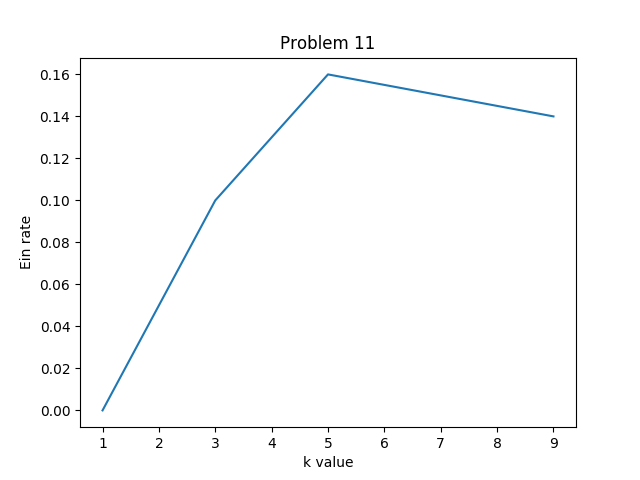
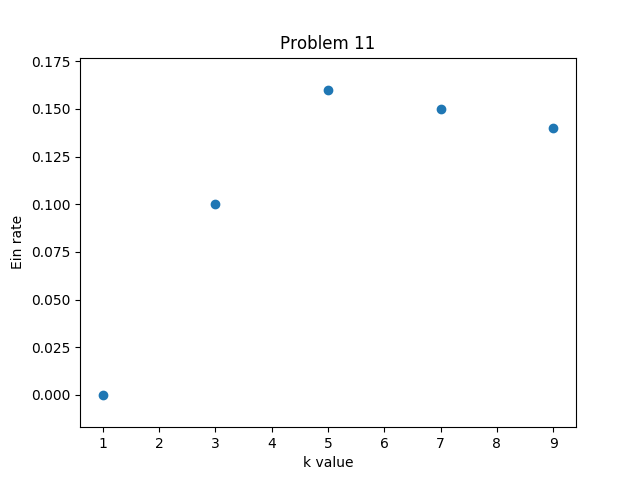
fix

diff --git a/hw4/knn.py b/hw4/knn.py
@@ -48,7 +48,7 @@ def problem_11():
     plt.title('Problem 11')
     plt.xlabel('k value')
     plt.ylabel('Ein rate')
-    plt.plot(k_list, Ein_list)
+    plt.scatter(k_list, Ein_list)
     plt.savefig('img/problem_11.png')
 
 def problem_12():
@@ -58,14 +58,14 @@ def problem_12():
     distance = get_distance_matrix(train_x, test_x)
     Eout_list = []
     for k in k_list:
-        prediction = get_prediction(distance, test_y, k)
+        prediction = get_prediction(distance, train_y, k)
         eout = get_error_rate(prediction, test_y)
         Eout_list.append(eout)
     
     plt.title('Problem 12')
     plt.xlabel('k value')
     plt.ylabel('Eout rate')
-    plt.plot(k_list, Eout_list)
+    plt.scatter(k_list, Eout_list)
     plt.savefig('img/problem_12.png')
 
 def problem_13():
